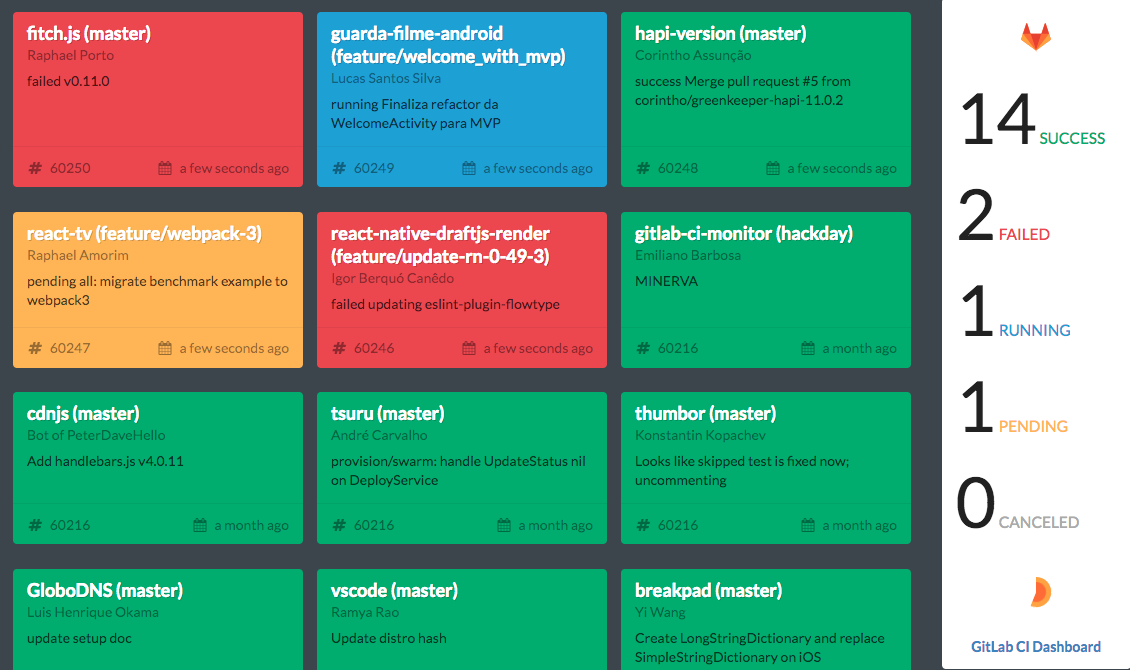
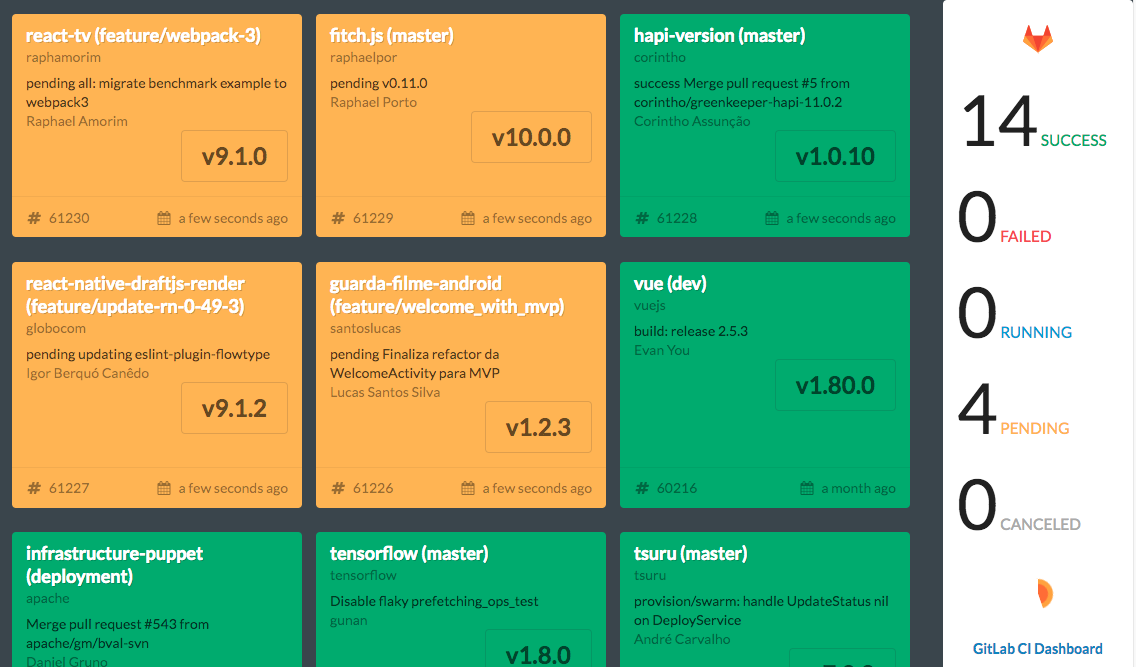
CHANGE: updaten sampla image; prepare prerelease

diff --git a/src/components/Builds.vue b/src/components/Builds.vue
@@ -17,7 +17,7 @@
             </div>
             <div class="meta">{{ build.author }}</div>
             <div class="ui right floated basic button">
-              <h3>{{ build.tag_name }}</h3>
+              <h2>{{ build.tag_name }}</h2>
             </div>
           </div>
           <div class="extra content">

diff --git a/CHANGELOG.md b/CHANGELOG.md
@@ -1,3 +1,7 @@
+# 5.2.0 Last tag (Version) on card
+- Mocked tags on gitlab mocked server
+- Adding Version on cards 
+
 # 5.1.0 Backward compatibility
 - command to create projectsFile file from querystring
 - compatibility mode with gitlab-ci-monitor
